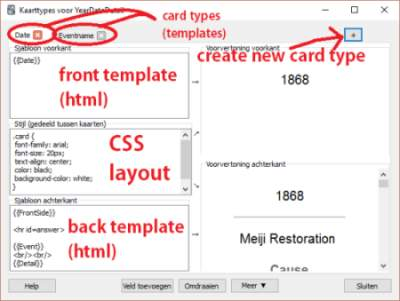
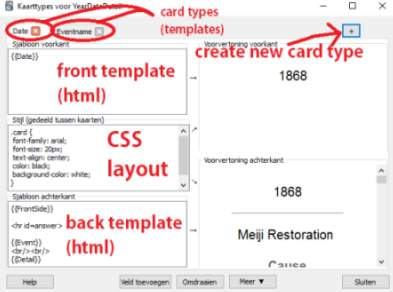
Update documentation

diff --git a/drafts/a-quick-guide-on-using-anki-2-an-efficient-vocab-mining-set-up-with-anki-and-rikaisama.html b/drafts/a-quick-guide-on-using-anki-2-an-efficient-vocab-mining-set-up-with-anki-and-rikaisama.html
@@ -154,7 +154,7 @@
               <div class="col-lg-12">
                   <div class="header-content center">
                       <h1 class="header-title nocount">A <del>Quick</del> Guide on Using Anki 2: an efficient vocab mining set-up with Anki and Rikaisama</h1>
-                      <p class="header-date">za 03 september 2016, in category <a href="https://steviepoppe.net/blog/category/technical-studies/">Technical, studies</a></p>
+                      <p class="header-date">do 08 september 2016, in category <a href="https://steviepoppe.net/blog/category/technical-studies/">Technical, studies</a></p>
                       <div class="header-underline"></div>
                       <div class="clearfix"></div>
                       <p class="pull-right header-tags">
@@ -183,7 +183,7 @@
 </li>
 <li><a href="#appliances">Appliances</a><ul>
 <li><a href="#internet">Internet</a></li>
-<li><a href="#novels">novels</a><ul>
+<li><a href="#novels">Novels</a><ul>
 <li><a href="#jnovelformatter">JNovelFormatter</a></li>
 <li><a href="#aozora">Aozora</a></li>
 </ul>
@@ -192,10 +192,7 @@
 <li><a href="#gaming">Gaming</a></li>
 </ul>
 </li>
-<li><a href="#my-plug-in">My Plug-in</a><ul>
-<li><a href="#audio-alternatives">Audio alternatives</a></li>
-</ul>
-</li>
+<li><a href="#my-plug-in">My Plug-in</a></li>
 <li><a href="#wait-there-is-more">Wait! There is more!</a></li>
 <li><a href="#further-reading">Further reading</a></li>
 </ul>
@@ -225,26 +222,28 @@
 <p><a href="http://rikaisama.sourceforge.net/">Rikaisama’s homepage</a> contains a simple, if what rather crude, set-up guide covering the basics of linking Rikaisama with Anki. I’ve found some to be somewhat aversed by all the field/token mapping talk, so I’ll try to simplify things a bit.</p>
 <h3 id="anki"><a class="toclink" href="#anki">Anki</a></h3>
 <p>First, Anki will need an additional add-on as well in order to allow real-time import. It’s ‘available’ at Ankiweb’s <a href="https://ankiweb.net/shared/info/2512410601">plug-in page</a>, although actual installation is done in-app. Open Anki on your desktop, go to <strong>Tools</strong> &gt; <strong>Add-ons</strong> &gt; <strong>Browse &amp; Install</strong>, and copypaste <strong>2512410601</strong> in the pop-up dialogue.</p>
-<p>For Rikaisama to recognize which Anki set to </p>
+<p>Now, we’ll create a new set to contain your Rikaisama-powered cards, as well as a new note-type …</p>
+<p>(coming soon, like tonight m’kay? :D)</p>
+<p>For Rikaisama to recognize which Anki set and which notes to use, we’ll have to open anki and enter our set everytime we’re on hunting spree. If you get a mismatch error, just (Blabla coming soon, pinkiepromise :D)</p>
 <h3 id="mapping"><a class="toclink" href="#mapping">Mapping</a></h3>
+<p>(coming REAL soon :D)</p>
 <h3 id="dictionaries"><a class="toclink" href="#dictionaries">Dictionaries</a></h3>
 <p>A final step in case you haven’t used Rikaichan before, is to install some dictionaries files, available at <a href="http://www.polarcloud.com/getrcx/">Rikaichan’s homepage</a>. I personally use the <strong>Japanese - Dutch</strong>,<sup id="fnref:9"><a class="footnote-ref" href="#fn:9" rel="footnote">9</a></sup> <strong>Japanese English</strong> and <strong>Japanese Names</strong> dictionaries, and sort them in those order in Rikaisama’s configuration.</p>
 <p class="center border"><img alt="center border" src="https://steviepoppe.net/images/anki/rikaisamadict.jpg" style="width: 500px; height: auto; max-width: 100%;"/></p>
 <h1 id="appliances"><a class="toclink" href="#appliances">Appliances</a></h1>
 <h2 id="internet"><a class="toclink" href="#internet">Internet</a></h2>
 <p>This one goes without saying as that’s pretty much the prime objective of this tutorial. If you’re a relatively new learner, NHK provides simplified news articles and videos at <a href="http://www3.nhk.or.jp/news/easy/">NHK Easy News</a>. I used these a lot near the end of my first year studying, and it’s a neat way to stay up to date with what’s going in Japan, or more generally in the world, as well (it’s rather awkward if you don’t, as Japanologist or student in cultural or social sciences).</p>
-<h2 id="novels"><a class="toclink" href="#novels">novels</a></h2>
+<h2 id="novels"><a class="toclink" href="#novels">Novels</a></h2>
 <blockquote>
 <p><span lang="ja">「言い方がまちがってるわ。ウィン、ガー・デイアム　レヴィ・オーサ。『ガー』と長一くきれいに言わなくちゃ」</span><sup id="fnref:2"><a class="footnote-ref" href="#fn:2" rel="footnote">2</a></sup></p>
 </blockquote>
 <h3 id="jnovelformatter"><a class="toclink" href="#jnovelformatter">JNovelFormatter</a></h3>
 <p><a href="http://forum.koohii.com/post-113458.html">JNovelFormatter</a> is a neat little tool, by the developer of Rikaisama<sup id="fnref:7"><a class="footnote-ref" href="#fn:7" rel="footnote">7</a></sup> that converts japanese literature in .txt format into clean parsed HTML files. Layout is fairly customizable, although I think the original settings are easy on the eye as-is (I like dark backgrounds when reading for hours at a time, makes me feel less like I’m gazing straight into a lightbulb). End of sentence dots get turned into bookmarkable anchors so you won’t lose track of your progress.</p>
 <p class="center border"><img alt="center border" src="https://steviepoppe.net/images/anki/anki-jnovel.jpg" style="width: 380px; height: auto; max-width: 100%;"/></p>
-<p>I highly recommend this method! I’ve used this approach while reading <em>The Girl Who Leapt Through Time</em> (<span lang="ja">時をかける少女</span>) during our <span lang="ja">読書クラブ</span>‘s book-reading sessions and just last week, as a kind of summer project, worked my way through the first <em>Harry Potter</em> (a surprisingly high difficulty but I know the original by heart so that helped heaps context-wise).</p>
-<p>As for resources, there’s plenty to be found online. Light novels are commonly uploaded in text format and probably a good starting point for the more advanced learner.<sup id="fnref:5"><a class="footnote-ref" href="#fn:5" rel="footnote">5</a></sup> I’ve heard <em>Zero no Tsukaima</em> (<span lang="ja">ゼロの使い魔</span>) and <em>Kino no Tabi</em> (<span lang="ja">キノの旅</span>) are relatively easy reads, for example.<sup id="fnref:10"><a class="footnote-ref" href="#fn:10" rel="footnote">10</a></sup></p>
+<p>I highly recommend this method! I’ve used this approach while reading <em>The Girl Who Leapt Through Time</em> (<span lang="ja"><ruby><rb>時</rb><rp>(</rp><rt>とき</rt><rp>)</rp></ruby>をかける<ruby><rb>少</rb><rp>(</rp><rt>しょう</rt><rp>)</rp></ruby><ruby><rb>女</rb><rp>(</rp><rt>じょ</rt><rp>)</rp></ruby></span>) during our <span lang="ja"><ruby><rb>読</rb><rp>(</rp><rt>どく</rt><rp>)</rp></ruby><ruby><rb>書</rb><rp>(</rp><rt>しょ</rt><rp>)</rp></ruby>クラブ</span>‘s book-reading sessions and just last week, as a kind of summer project, worked my way through the first <em>Harry Potter</em> (a surprisingly high difficulty but I know the original by heart so that helped heaps context-wise).</p>
+<p>As for resources, there’s plenty to be found online. Light novels are commonly uploaded in text format and probably a good starting point for the more advanced learner.<sup id="fnref:5"><a class="footnote-ref" href="#fn:5" rel="footnote">5</a></sup> I’ve heard <em>Zero no Tsukaima</em> (<span lang="ja">ゼロの<ruby><rb>使</rb><rp>(</rp><rt>つかい</rt><rp>)</rp></ruby><ruby><rb>魔</rb><rp>(</rp><rt>ま</rt><rp>)</rp></ruby></span>) and <em>Kino no Tabi</em> (<span lang="ja">キノの<ruby><rb>旅</rb><rp>(</rp><rt>たび</rt><rp>)</rp></ruby></span>) are relatively easy reads, for example.<sup id="fnref:10"><a class="footnote-ref" href="#fn:10" rel="footnote">10</a></sup></p>
 <h3 id="aozora"><a class="toclink" href="#aozora">Aozora</a></h3>
 <p><a href="Aozora">http://www.aozora.gr.jp/</a>, pretty much the Japanese Gutenberg project, freely hosts tons of public-domain books online.<sup id="fnref:4"><a class="footnote-ref" href="#fn:4" rel="footnote">4</a></sup> Check out Natsume Sōseki’s classic Botchan as <a href="http://www.aozora.gr.jp/cards/000148/files/752_14964.html">example</a>. Their literary standards are a bit higher as the typical light novel so it’s quite an adjustment, but great for those who’re looking for easy-to-find, legally obtainable literature.</p>
-<p>Tip: audiobooks (nee aparte blog)</p>
 <h2 id="anime"><a class="toclink" href="#anime">Anime</a></h2>
 <p>A really cool concept recently released is Animelon’s multi-layer subtitled anime streaming web-app, akin to the <a href="https://www.erin.ne.jp/en/">Erin’s Challenge</a> video’s (except with arguably way more interesting content: as of date there are over 60 series hosted, mostly all big names ranging from more recent hits as SAO and Attack on Titan to classics as Fullmetal Alchemist: Brotherhood and Clannad).</p>
 <p>If I were to recommend one to start with, I’d definitely pick Clannad.<sup id="fnref:3"><a class="footnote-ref" href="#fn:3" rel="footnote">3</a></sup> The high-school setting means relatively easy and casual vocabulary (as opposed to, for example, SAO’s highly technical and fantasy-related vocab you’ll barely ever encounter in real life), while the voice acting’s pacing is calm enough to pick up as relative beginner, and devoid of difficult accents. </p>
@@ -263,9 +262,7 @@
 <h1 id="my-plug-in"><a class="toclink" href="#my-plug-in">My Plug-in</a></h1>
 <p>If there’s one downside to this method, it’s that audio will be added to your cards regardless if there’s actually an audio file in existence. More concretely, your audio-fields will have a reference to a non-existent file. Now, one solution is to, whenever you come across such a card during your anki-time, manually delete the audio entry and occasionally clearing all “empty” card notes by selecting <strong>Tools</strong> → <strong>Empty Cards</strong>.</p>
 <p class="center border"><img alt="center border" src="https://steviepoppe.net/images/anki/anki-removesound.jpg" style="width: 232px; height: auto; max-width: 100%;"/></p>
-<p>But! If your sets contain thousands of cards, it’s easier to do this automatically, don’t you think. I’ve written a small python plug-in that compares your set’s audio entries with the audio files in your anki library and deletes empty notes. I’ve added the plug-in to my <a href="https://steviepoppe.net/resources/">resources</a>, if you’re interested. HAHA NEE NOG NI GEDAAN (maar da komt nog - <em>ooit</em>)</p>
-<h2 id="audio-alternatives"><a class="toclink" href="#audio-alternatives">Audio alternatives</a></h2>
-<p>http://learnjapaneseonline.info/2014/10/14/kikitori-japanese-listening-the-dolly-sentences-method-technical-how-to-do-it/</p>
+<p>But! If your sets contain thousands of cards, it’s easier to do this automatically, don’t you think. I’ve written a small python plug-in that compares your set’s audio entries with the audio files in your anki library and deletes empty notes. I’ve added the plug-in to my <a href="https://steviepoppe.net/resources/">resources</a>, if you’re interested. (actually I haven’t yet and will do this in the weekend but as no one’s reading this yet anyway it doesn’t matter :D)</p>
 <h1 id="wait-there-is-more"><a class="toclink" href="#wait-there-is-more">Wait! There is more!</a></h1>
 <p>The main goal of this post was to introduce a less known, but highly useful, Anki functionality by linking Rikaisama’s excellent<sup id="fnref:8"><a class="footnote-ref" href="#fn:8" rel="footnote">8</a></sup> pop-up dictionary with Anki’s API, as well as show several possible appliances. If you’ve any further questions, feel free to check out the other articles in this series on Anki, or to leave a comment below.</p>
 <ul>
@@ -275,13 +272,14 @@
 </ul>
 <h1 id="further-reading"><a class="toclink" href="#further-reading">Further reading</a></h1>
 <ul>
+<li><a href="http://learnjapaneseonline.info/2014/10/14/kikitori-japanese-listening-the-dolly-sentences-method-technical-how-to-do-it/">Japanese Voice Synthesis in Anki</a>: My approach uses JapanesePod101’s vast audiolibrary. However, not occasionally I encounter words that have no native spoken audio recorded. If you want completion, This tutorial explains how you to set-up Text-to-Speech (TTS) with Anki. I haven’t done this myself however, so your mileage might vary.</li>
 <li><a href="http://www.nihongonobaka.com/learn-japanese-through-video-games/">Learn Japanese Through Videogames</a>: speaking of videogames, you could also look up videogame scripts (<span lang="ja">セリフ集</span>) and vocab-mine from those. This guy wrote a decent blog on that. The recent Phoenix Wright spin-off, Dai Gyakuten Saiban, has yet to be confirmed to receive a western release, so I’ll have to brush up my court of law vocab this way before playing. </li>
 </ul>
 <div class="footnote">
 <hr/>
 <ol>
 <li id="fn:1">
-<p>Some stuff about JPOD101 <a class="footnote-backref" href="#fnref:1" rev="footnote" title="Jump back to footnote 1 in the text">↩</a></p>
+<p>A popular online language course podcast. They have podcasts ranging from newbie (mostly English) to upper intermediate (100% Japanese). I used to use these in the beginning as the added scripts are quite helpful for raising listening skills. The male, English speaking is notoriously difficult to stand, however, and despite most content being free, they have some iffy marketing techniques. Regardless, they recorded a dictionary’s worth of vocabulary in high quality audio for Jim Breen’s dictionary, so that’s hella cool. Read more: <a href="http://blogs.japanesepod101.com/blog/2009/04/20/biggest-announcement-ever-edict-japanese-dictionary-now-with-audio-for-every-clip-must-hear">http://blogs.japanesepod101.com/blog/2009/04/20/biggest-announcement-ever-edict-japanese-dictionary-now-with-audio-for-every-clip-must-hear</a> <a class="footnote-backref" href="#fnref:1" rev="footnote" title="Jump back to footnote 1 in the text">↩</a></p>
 </li>
 <li id="fn:2">
 <p>The single most satisfying scene from the Japanese edition of the first Harry Potter novel. <a class="footnote-backref" href="#fnref:2" rev="footnote" title="Jump back to footnote 2 in the text">↩</a></p>

diff --git a/blog/2016/09/a-quick-guide-on-using-anki-effectively-in-an-academic-context/index.html b/blog/2016/09/a-quick-guide-on-using-anki-effectively-in-an-academic-context/index.html
@@ -267,7 +267,7 @@
 <p><strong>Meiji constititution</strong> (<em>Ito Hirobumi</em>, 1890) - abolition of the han system  (<span lang="ja"><ruby><rb>廃</rb><rp>(</rp><rt>はい</rt><rp>)</rp></ruby><ruby><rb>藩</rb><rp>(</rp><rt>はん</rt><rp>)</rp></ruby><ruby><rb>置</rb><rp>(</rp><rt>ち</rt><rp>)</rp></ruby><ruby><rb>県</rb><rp>(</rp><rt>けん</rt><rp>)</rp></ruby></span>) - abolition of the four class system (<span lang="ja"><ruby><rb>士</rb><rp>(</rp><rt>し</rt><rp>)</rp></ruby><ruby><rb>農</rb><rp>(</rp><rt>のう</rt><rp>)</rp></ruby><ruby><rb>工</rb><rp>(</rp><rt>こう</rt><rp>)</rp></ruby><ruby><rb>商</rb><rp>(</rp><rt>しょう</rt><rp>)</rp></ruby></span>) - land and tax reforms - nationwide subscription - <strong>satsuma rebellion</strong> - Rapid industrialization - <span lang="ja"><ruby><rb>富</rb><rp>(</rp><rt>ふ</rt><rp>)</rp></ruby><ruby><rb>国</rb><rp>(</rp><rt>こく</rt><rp>)</rp></ruby><ruby><rb>強</rb><rp>(</rp><rt>きょう</rt><rp>)</rp></ruby><ruby><rb>兵</rb><rp>(</rp><rt>へい</rt><rp>)</rp></ruby></span> and militarization </p>
 </blockquote>
 <p>Finally, we’ll change the cards generated out of this note. Click on the <strong>Cards</strong> button and take a good look around. Terms in double brackets (eg. <code>{{Event}}</code>) are variables and represent either your note’s fields or its front/backside. Through tags as <code>&lt;br&gt;</code> and <code>&lt;hr&gt;</code>, you might notice cards use HTML (the markup language used in webdevelopment), while the style-screen in the middle defines your card’s style using CSS (the same standard used for layouting in webdesign): stuff like colors, font-types, etc. Note that, while it could help, you really don’t need any experience in these to make nice cards.</p>
-<p class="center border"><img alt="center border" src="https://steviepoppe.net/images/anki/anki-cardtype.jpg" style="width: 400px; height: auto; max-width: 100%;"/></p>
+<p class="center border"><img alt="center border" src="https://steviepoppe.net/images/anki/anki-cardtype.jpg" style="width: 393px; height: auto; max-width: 100%;"/></p>
 <p>Start by editting your current card. Name it <code>date</code> by clicking <strong>more</strong> → <strong>rename</strong>. </p>
 <p>Next you’ll want to add the contents of your detail field to your backside’s template. <code>&lt;br&gt;&lt;br&gt;</code> creates two line breaks in HTML, adding sufficient room between the content of the two fields.</p>
 <div class="codehilite"><pre><span></span>    {{FrontSide}}
@@ -278,17 +278,17 @@
     <span class="p">&lt;</span><span class="nt">br</span><span class="p">&gt;&lt;</span><span class="nt">br</span><span class="p">&gt;</span>
     {{Detail}}
 </pre></div>
-<p class="right border"><img alt="right border" src="https://steviepoppe.net/images/anki/anki-secondcard.jpg" style="width: 327px; height: auto; max-width: 100%;"/></p>
 <p>Now click on the <code>+</code> button in the upper-right corner to add a new card. Name it <code>EventName</code>. This time you’ll edit the templates of the front and back to question you on the event’s date along the details by switching ´<span lang="ja">Event</span>´ and ´<span lang="ja">Date</span>´ around. Give if a shot.</p>
-<p>When finished, you should now have something similar to the screenshot on the right. If you’re still with me, I’d like to introduce you one last useful feature (for now). This one might be less relevant for those not studying Japanese, but honestly, it’s a neat one to keep in mind when designing your cards (I occasionally use it outside language-learning as well). Remember those kanji up there? They had furigana<sup id="fnref:6"><a class="footnote-ref" href="#fn:6" rel="footnote">6</a></sup> on top. We’d probably want this in our cards as well. Luck goes it setting this up is extremely simple and support comes out-of-the-box: just add <code>furigana:</code> in front of your field variables in the card-note screen, eg. <code>{{furigana:Detail}}</code>. </p>
+<p class="left border"><img alt="left border" src="https://steviepoppe.net/images/anki/anki-secondcard.jpg" style="width: 327px; height: auto; max-width: 100%;"/></p>
+<p>When finished, you should now have something similar to the screenshot on the left. If you’re still with me, I’d like to introduce you one last useful feature (for now). This one might be less relevant for those not studying Japanese, but honestly, it’s a neat one to keep in mind when designing your cards (I occasionally use it outside language-learning as well). Remember those kanji up there? They had furigana<sup id="fnref:6"><a class="footnote-ref" href="#fn:6" rel="footnote">6</a></sup> on top. We’d probably want this in our cards as well. Luck goes it setting this up is extremely simple and support comes out-of-the-box: just add <code>furigana:</code> in front of your field variables in the card-note screen, eg. <code>{{furigana:Detail}}</code>. </p>
 <p>Actually, to accomodate Japanese learners, we’ll take away the crutches of kana reading aids and let it display only on touch. Add the CSS below to the bottom of your note’s style (the one in the middle). This hides all furigana (or rather, ruby annotations) by default and displays them upon touch or hover.</p>
 <div class="codehilite"><pre><span></span><span class="nt">ruby</span> <span class="nt">rt</span> <span class="p">{</span> <span class="nb">visibility</span><span class="o">:</span> <span class="nb">hidden</span><span class="p">;</span> <span class="p">}</span>
 <span class="nt">ruby</span><span class="nd">:hover</span> <span class="nt">rt</span> <span class="p">{</span> <span class="nb">visibility</span><span class="o">:</span> <span class="nb">visible</span><span class="p">;</span> <span class="p">}</span>
 </pre></div>
-<p>Now, add the furigana, contained in square brackets, next to their respective words: eg. <code>一世一元[いっせいいちげん], 廃藩置県[はいはんちけん], 士農工商[しのうこうしょう], 富国強兵[ふこくきょうへい]</code>. When done, let’s wrap things up by clicking <strong>add</strong>.</p>
+<p>Now, add the furigana, contained in square brackets, next to their respective words: eg. <code>一世一元[いっせいいちげん]</code>, <code>廃藩置県[はいはんちけん]</code>, <code>士農工商[しのうこうしょう]</code>, and <code>富国強兵[ふこくきょうへい]</code>. When done, let’s wrap things up by clicking <strong>add</strong>.</p>
 <hr/>
-<p class="left border"><img alt="left border" src="https://steviepoppe.net/images/anki/anki-decksettings.jpg" style="width: 419px; height: auto; max-width: 100%;"/></p>
 <p>Now that you’ve created your first set(s) and a couple of cards, I <strong>highly recommend</strong> changing the studying settings tied to your sets as well. Out of the box, <strong>Anki will add 20 new cards and allow only 100 repetitions a day</strong>. This is highly inefficient. We’ll want to remove the top barrier and be in control of the amount of new cards we study.</p>
+<p class="center border"><img alt="center border" src="https://steviepoppe.net/images/anki/anki-decksettings.jpg" style="width: 419px; height: auto; max-width: 100%;"/></p>
 <p>Open your main deck’s settings by clicking the icon to the right and selecting settings. Don’t worry, these settings pertain all sets fixed to this “option group”, so you won’t have to do this manually for all your new sets. Edit these three elements:</p>
 <ul>
 <li><strong>New Cards</strong>: new cards/day -&gt; <code>0</code></li>
@@ -303,7 +303,7 @@
 <h3 id="your-first-set-efficiently"><a class="toclink" href="#your-first-set-efficiently">Your first set…  <em>Efficiently</em>!</a></h3>
 <p>If you’re starting on a new language, you’ll probably want to start by learning basic vocabulary common in every language (eg. words such as “person”, “name”, etc). If that’s the case, there’s no need to reinvent the wheel: look for premade decks and eventually adjust the card lay-out to your own liking. Anki’s own <a href="https://ankiweb.net/shared/decks/">shared deck repository</a> is a good place to start.</p>
 <p>If there’s no premade decks to your liking, but you have access to large data files such as large word lists, another solution would be to import CSV<sup id="fnref:7"><a class="footnote-ref" href="#fn:7" rel="footnote">7</a></sup> files or other forms of text seperated by tabs or semicolons and mapping the contents to your note’s fields. An added benefit of this approach is it’s suitability for group (or class) work, by setting up a googledoc sheet, and through a joint-effort creating a large spreadsheet everyone could export as CSV. If there’s demand, I could hack up a small (we’ll see) guide on setting this up.</p>
-<p>Personally, I’ve set up my environment to import any new Japanese word I encounter online and would like to study straight into anki with audio and dictionary definitions. As this goes beyond the scope of this article, I’ve written <a href="#">another tutorial</a> (<em>coming soon!</em>) on that, and definitely recommend that approach for Japanese learners.</p>
+<p>Personally, I’ve set up my environment to import any new Japanese word I encounter online and would like to study straight into anki with audio and dictionary definitions. As this goes beyond the scope of this article, I’ve written <a href="https://steviepoppe.net/blog/2016/09/a-quick-guide-on-using-anki-2-an-efficient-vocab-mining-set-up-with-anki-and-rikaisama/">another tutorial</a> on that, and definitely recommend that approach for Japanese learners.</p>
 <h2 id="structuring-data"><a class="toclink" href="#structuring-data">Structuring Data</a></h2>
 <ul>
 <li>“<em>But Stevie</em>”, I hear you ask, “<em>how do I study less structured information with Anki?</em>“</li>
@@ -339,7 +339,7 @@ I spent about a month on a road trip in the USA this summer; unforgettable memor
 <p>The main goal of this post was to introduce Anki both in it’s core usage as well as the wide range of appliances in the field of both linguistic and academic studies. If you’ve any further questions, feel free to leave a comment below.</p>
 <p>That being said, Anki is customizable to the point books have been written on it. Thus trying to contain everything in a single post (hence “<strong>A <del>quick</del> guide to Anki</strong>”) is a mission impossible. There are several other features I feel are useful (and underrepresented) enough in mainstream language blogs to warrant further writing though (namely Anki’s API, statistics, useful plug-ins, and integrating Rikaisama and J-pod101’s audio). Check these out in my next blogs:</p>
 <ul>
-<li><a href="#">Setting up a perfect vocab-mining environment with Anki and Rikaisama</a> (<em>coming soon</em>)</li>
+<li><a href="https://steviepoppe.net/blog/2016/09/a-quick-guide-on-using-anki-2-an-efficient-vocab-mining-set-up-with-anki-and-rikaisama/">Setting up a perfect vocab-mining environment with Anki and Rikaisama</a> (<em><del>coming soon</del></em>)</li>
 <li><a href="#">Using Anki’s API to contextualize your vocab cards with example sentences</a> (<em>coming soon</em>)</li>
 <li><a href="#">Estimating a text’s difficulty based on your Anki’s vocab set</a> (<em>coming soon</em>)</li>
 </ul>

diff --git a/blog/tags/index.html b/blog/tags/index.html
@@ -150,20 +150,8 @@
             <h1>Tagcloud</h1>
             <ul class="tagcloud">
         <li class="tag-4">
-            <a href="https://steviepoppe.net/blog/tags/kuleuven/">
-            KULeuven
-                    <span class="badge">1</span>
-            </a>
-        </li>
-        <li class="tag-4">
-            <a href="https://steviepoppe.net/blog/tags/anki/">
-            Anki
-                    <span class="badge">1</span>
-            </a>
-        </li>
-        <li class="tag-4">
-            <a href="https://steviepoppe.net/blog/tags/github/">
-            github
+            <a href="https://steviepoppe.net/blog/tags/footnotes/">
+            Footnotes
                     <span class="badge">1</span>
             </a>
         </li>
@@ -171,18 +159,6 @@
             <a href="https://steviepoppe.net/blog/tags/python/">
             python
                     <span class="badge">2</span>
-            </a>
-        </li>
-        <li class="tag-1">
-            <a href="https://steviepoppe.net/blog/tags/japanese/">
-            Japanese
-                    <span class="badge">3</span>
-            </a>
-        </li>
-        <li class="tag-4">
-            <a href="https://steviepoppe.net/blog/tags/set-up/">
-            set-up
-                    <span class="badge">1</span>
             </a>
         </li>
         <li class="tag-2">
@@ -198,14 +174,32 @@
             </a>
         </li>
         <li class="tag-4">
-            <a href="https://steviepoppe.net/blog/tags/fonts/">
-            fonts
+            <a href="https://steviepoppe.net/blog/tags/kuleuven/">
+            KULeuven
                     <span class="badge">1</span>
             </a>
         </li>
         <li class="tag-4">
             <a href="https://steviepoppe.net/blog/tags/tutorial/">
             Tutorial
+                    <span class="badge">1</span>
+            </a>
+        </li>
+        <li class="tag-1">
+            <a href="https://steviepoppe.net/blog/tags/japanese/">
+            Japanese
+                    <span class="badge">3</span>
+            </a>
+        </li>
+        <li class="tag-4">
+            <a href="https://steviepoppe.net/blog/tags/anki/">
+            Anki
+                    <span class="badge">1</span>
+            </a>
+        </li>
+        <li class="tag-4">
+            <a href="https://steviepoppe.net/blog/tags/video/">
+            Video
                     <span class="badge">1</span>
             </a>
         </li>
@@ -216,14 +210,20 @@
             </a>
         </li>
         <li class="tag-4">
-            <a href="https://steviepoppe.net/blog/tags/footnotes/">
-            Footnotes
+            <a href="https://steviepoppe.net/blog/tags/github/">
+            github
                     <span class="badge">1</span>
             </a>
         </li>
         <li class="tag-4">
-            <a href="https://steviepoppe.net/blog/tags/video/">
-            Video
+            <a href="https://steviepoppe.net/blog/tags/set-up/">
+            set-up
+                    <span class="badge">1</span>
+            </a>
+        </li>
+        <li class="tag-4">
+            <a href="https://steviepoppe.net/blog/tags/fonts/">
+            fonts
                     <span class="badge">1</span>
             </a>
         </li>

diff --git a/blog/2016/08/visiting-a-japanese-elementary-school-an-awkward-experience-to-remember/index.html b/blog/2016/08/visiting-a-japanese-elementary-school-an-awkward-experience-to-remember/index.html
@@ -230,10 +230,10 @@
         <div class="category">
             <h2>Related posts</h2>
             <dl class="dl-horizontal">
-                <dt>di 06 september 2016</dt>
-                <dd><a href="https://steviepoppe.net/blog/2016/09/parsing-japanese-text-in-markdown-python-for-stylizing-and-semantic-purposes/">Parsing Japanese Text in Markdown-Python for Stylizing and Semantic Purposes</a></dd>
                 <dt>wo 07 september 2016</dt>
                 <dd><a href="https://steviepoppe.net/blog/2016/09/a-quick-guide-on-using-anki-effectively-in-an-academic-context/">A <del>Quick</del> Guide on Using Anki (effectively) (in an academic context)</a></dd>
+                <dt>di 06 september 2016</dt>
+                <dd><a href="https://steviepoppe.net/blog/2016/09/parsing-japanese-text-in-markdown-python-for-stylizing-and-semantic-purposes/">Parsing Japanese Text in Markdown-Python for Stylizing and Semantic Purposes</a></dd>
             </dl>
             </div>
         <hr />
